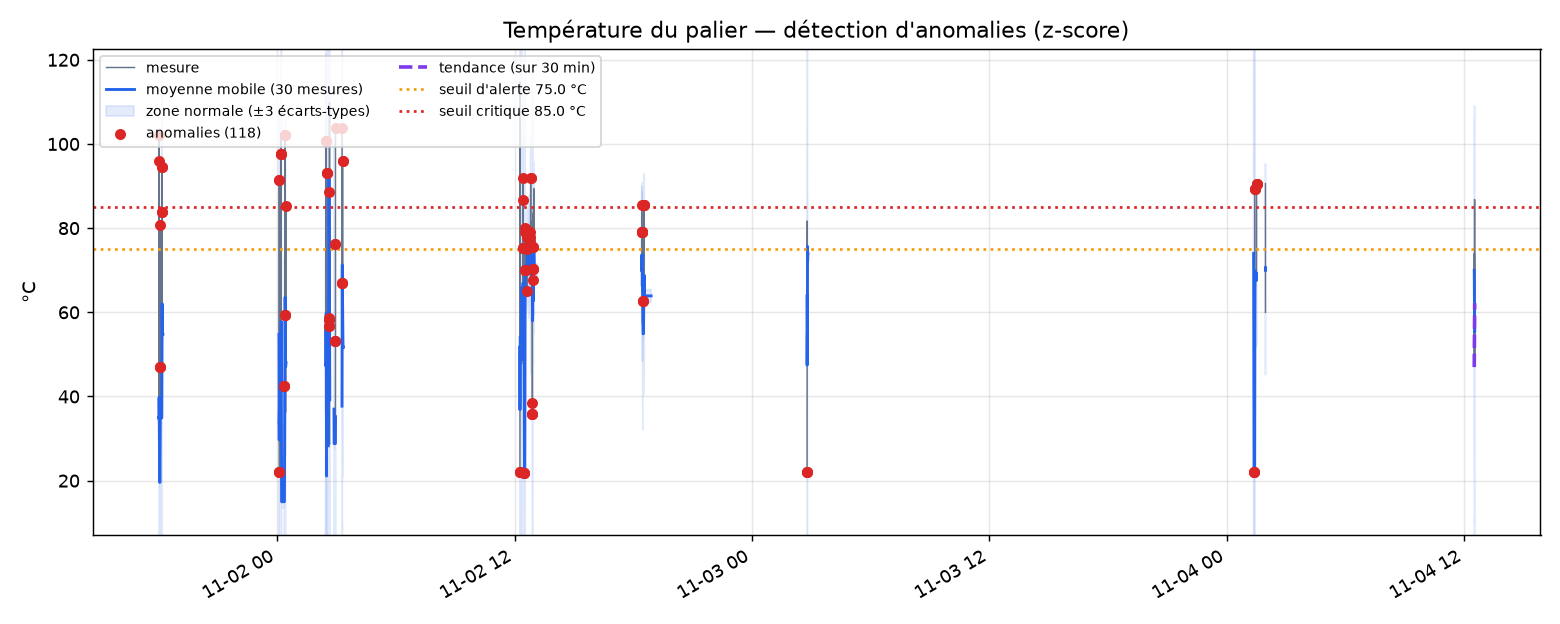
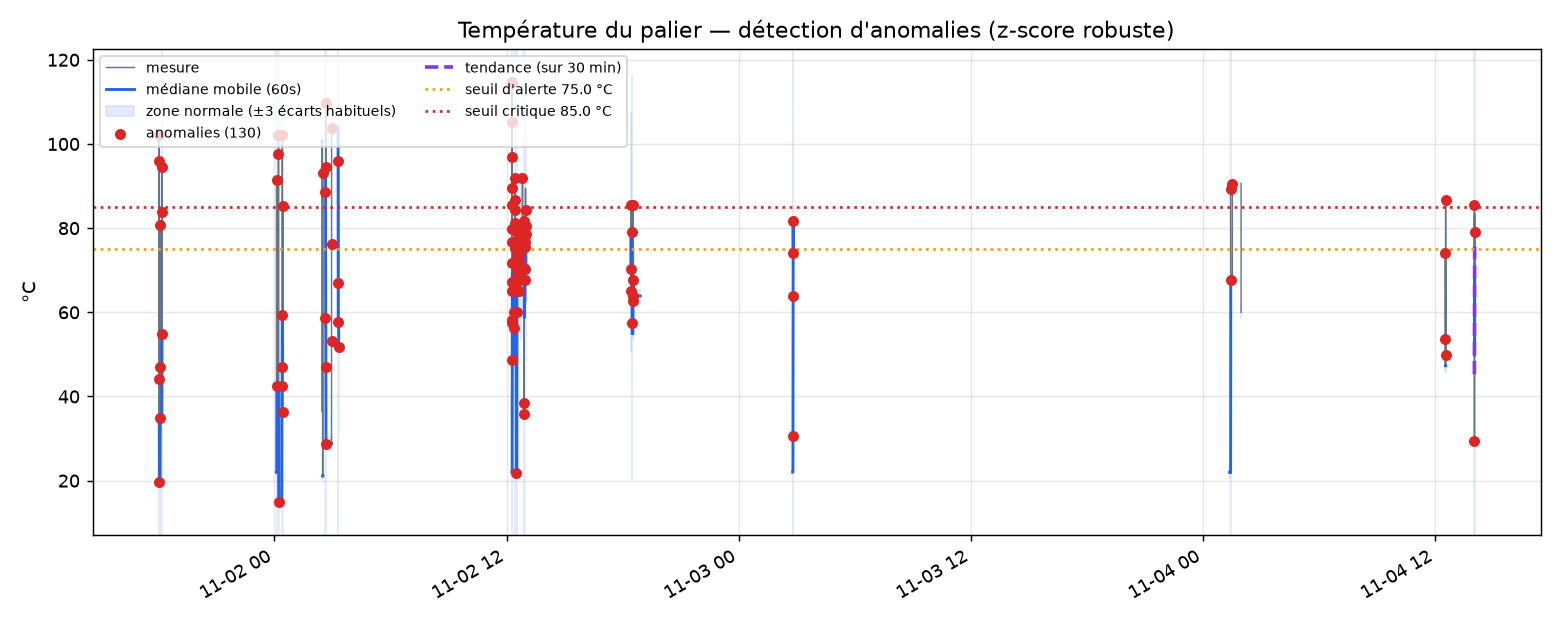
Etape 15 : correction de analyse.py

diff --git a/4-python/analyse.py b/4-python/analyse.py
@@ -2,8 +2,11 @@
 
 Ce que fait le script, pour chaque grandeur (température, vibration) :
   1. charge l'historique CSV (mesures valides seulement) ;
-  2. calcule une moyenne mobile et un écart-type mobile sur la minute précédente ;
-  3. détecte les anomalies par z-score : |z| > 3 = valeur très éloignée de son passé récent ;
+  2. calcule la « valeur habituelle » (médiane) et l'« écart habituel » (MAD) de la minute précédente ;
+  3. détecte les anomalies par z-score robuste : |z| > 3 (loin de l'habitude) et saut > 3 écarts
+     par rapport à la mesure précédente (un nouveau palier compte une seule fois) ;
+     (médiane et MAD au lieu de moyenne et écart-type : un premier saut ne « gonfle » pas la référence
+      et ne cache donc pas les sauts suivants) ;
   4. calcule la tendance des 30 dernières minutes (pente) et estime le temps
      restant avant le seuil d'alerte et le seuil critique (maintenance prédictive) ;
   5. trace un graphique avec les anomalies et les seuils, et écrit un petit rapport.
@@ -26,10 +29,13 @@ import pandas as pd
 RACINE = Path(__file__).resolve().parent.parent
 SORTIE = Path(__file__).resolve().parent / "resultats"
 
-FENETRE  = 30          # 30 mesures = 1 minute (une mesure toutes les 2 s)
-Z_MAX    = 3.0         # au-delà de 3 écarts-types : anomalie
+FENETRE  = "60s"       # référence = la minute PRÉCÉDENTE (fenêtre de temps : après un arrêt, on ne compare pas à de vieilles mesures)
+MIN_MESURES = 3        # il faut au moins 3 mesures dans la fenêtre pour juger
+Z_MAX    = 3.0         # au-delà de 3 « écarts habituels » : anomalie
+K_MAD    = 1.4826      # MAD × 1,4826 = écart-type équivalent (pour un bruit normal)
 ECART_MIN = {"temperature": 0.5, "vibration": 0.02}   # évite de diviser par ~0 quand le signal est plat
 TENDANCE_MIN = 30      # tendance calculée sur les 30 dernières minutes
+DUREE_MIN_TENDANCE = 0.5   # il faut des mesures sur au moins la moitié de cette durée, sinon pas de prévision
 
 NOMS = {"temperature": "Température", "vibration": "Vibration"}
 TROU_FACTEUR = 10      # un écart 10 fois plus long que d'habitude = simulation arrêtée : on coupe la courbe
@@ -78,11 +84,16 @@ def analyser(d, grandeur):
     s = SEUILS[grandeur]
     x = d[d["grandeur"] == grandeur].set_index("ts")["valeur"]
 
-    # Moyenne et écart-type de la minute PRÉCÉDENTE (shift) : la mesure testée ne fausse pas sa propre référence
-    moyenne = x.rolling(FENETRE, min_periods=FENETRE).mean().shift(1)
-    ecart = x.rolling(FENETRE, min_periods=FENETRE).std().shift(1).clip(lower=ECART_MIN[grandeur])
-    z = (x - moyenne) / ecart
-    anomalies = x[z.abs() > Z_MAX]
+    # Référence = la minute PRÉCÉDENTE ("left" : la mesure testée n'est pas dans sa propre référence)
+    fenetre = x.rolling(FENETRE, min_periods=MIN_MESURES, closed="left")
+    moyenne = fenetre.median()                                   # valeur habituelle (médiane)
+    mad = fenetre.apply(lambda w: np.median(np.abs(w - np.median(w))), raw=True)   # écart habituel (MAD)
+    ecart = (K_MAD * mad).clip(lower=ECART_MIN[grandeur])        # minimum imposé : pas de division par 0
+    z = (x - moyenne) / ecart                                    # z-score robuste
+    saut = (x - x.shift(1)).abs() / ecart                        # écart avec la mesure d'avant
+    # Anomalie = la mesure est loin de l'habitude (|z| > 3) ET elle vient de sauter (> 3 écarts) :
+    # un nouveau palier n'est compté qu'une fois, au moment du saut, pas à chaque mesure qui suit.
+    anomalies = x[(z.abs() > Z_MAX) & (saut > Z_MAX)]
 
     # Tendance sur les 30 dernières minutes : droite des moindres carrés
     recent = x[x.index >= x.index.max() - pd.Timedelta(minutes=TENDANCE_MIN)]
@@ -90,13 +101,22 @@ def analyser(d, grandeur):
     pente, origine = np.polyfit(heures, recent.values, 1) if len(recent) > 10 else (0.0, recent.mean())
     actuelle = recent.tail(5).mean()                            # valeur actuelle = moyenne des 5 dernières mesures
 
+    duree_min = (recent.index.max() - recent.index.min()).total_seconds() / 60 if len(recent) else 0
+    assez = duree_min >= DUREE_MIN_TENDANCE * TENDANCE_MIN   # une droite tirée sur 1 minute ne prédit rien
+
     def temps_avant(seuil):
         if actuelle >= seuil:
             return "déjà atteint"
+        if not assez:
+            return f"pas de prévision (seulement {duree_min:.0f} min de mesures récentes, il en faut {DUREE_MIN_TENDANCE * TENDANCE_MIN:.0f})"
         if pente <= 0:
             return "jamais (pas de montée)"
         h = (seuil - actuelle) / pente
-        return f"environ {h:.1f} h" if h < 48 else f"environ {h / 24:.0f} jours"
+        if h < 1:
+            return f"environ {h * 60:.0f} min"
+        if h < 48:
+            return f"environ {h:.1f} h"
+        return f"environ {h / 24:.1f} jours ({h:.0f} h)"
 
     resume = {
         "grandeur": grandeur,
@@ -115,16 +135,16 @@ def tracer(grandeur, x, moyenne, ecart, anomalies, droite, fichier):
     fig, ax = plt.subplots(figsize=(12, 4.8))
     xc, mc = couper_trous(x), couper_trous(moyenne)
     ax.plot(xc.index, xc.values, lw=0.8, color="#64748b", label="mesure")
-    ax.plot(mc.index, mc.values, lw=1.6, color="#2563eb", label=f"moyenne mobile ({FENETRE} mesures)")
+    ax.plot(mc.index, mc.values, lw=1.6, color="#2563eb", label=f"médiane mobile ({FENETRE})")
     bas_z, haut_z = couper_trous(moyenne - Z_MAX * ecart), couper_trous(moyenne + Z_MAX * ecart)
     ax.fill_between(bas_z.index, bas_z.values, haut_z.values,
-                    color="#2563eb", alpha=0.12, label="zone normale (±3 écarts-types)")
+                    color="#2563eb", alpha=0.12, label="zone normale (±3 écarts habituels)")
     ax.scatter(anomalies.index, anomalies.values, color="#dc2626", s=26, zorder=3,
                label=f"anomalies ({len(anomalies)})")
     ax.plot(droite[0], droite[1], "--", color="#7c3aed", lw=2, label=f"tendance (sur {TENDANCE_MIN} min)")
     ax.axhline(s["alerte"], color="#f59e0b", ls=":", lw=1.5, label=f"seuil d'alerte {s['alerte']} {s['unite']}")
     ax.axhline(s["critique"], color="#dc2626", ls=":", lw=1.5, label=f"seuil critique {s['critique']} {s['unite']}")
-    ax.set_title(f"{NOMS[grandeur]} du palier — détection d'anomalies (z-score)")
+    ax.set_title(f"{NOMS[grandeur]} du palier — détection d'anomalies (z-score robuste)")
     ax.set_ylabel(s["unite"])
     bas, haut = np.nanmin(x.values), np.nanmax(x.values)
     marge = (max(haut, s["critique"]) - bas) * 0.08
@@ -150,7 +170,7 @@ def main():
     global FENETRE, TENDANCE_MIN
     if args.demo:
         d, nb_ignorees, nom = donnees_demo(), 0, "DONNÉES SIMULÉES (démonstration d'usure lente sur 7 jours)"
-        FENETRE, TENDANCE_MIN = 36, 24 * 60                     # fenêtre 3 h, tendance sur le dernier jour
+        FENETRE, TENDANCE_MIN = "3h", 24 * 60                   # fenêtre 3 h, tendance sur le dernier jour
         sortie = SORTIE / "demo"
     else:
         d, nb_ignorees = charger(args.fichier)
@@ -170,7 +190,7 @@ def main():
             f"== {g.upper()} ==",
             f"Mesures valides : {r['nb']}  ({r['debut']:%d/%m %H:%M} → {r['fin']:%d/%m %H:%M} UTC)",
             f"Moyenne {r['moyenne']:.2f} {u} · min {r['min']:.2f} · max {r['max']:.2f}",
-            f"Anomalies (|z| > {Z_MAX:g}) : {r['nb_anomalies']}",
+            f"Anomalies (sauts inhabituels, |z| > {Z_MAX:g}) : {r['nb_anomalies']}",
             f"Tendance (sur {TENDANCE_MIN} min) : {r['pente']:+.3f} {u}/h · valeur actuelle ≈ {r['actuelle']:.2f} {u}",
             f"Temps estimé avant le seuil d'alerte : {r['avant_alerte']}",
             f"Temps estimé avant le seuil critique : {r['avant_critique']}",
